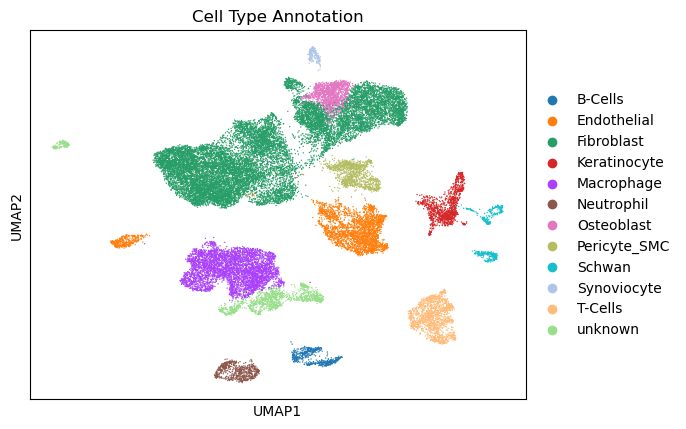
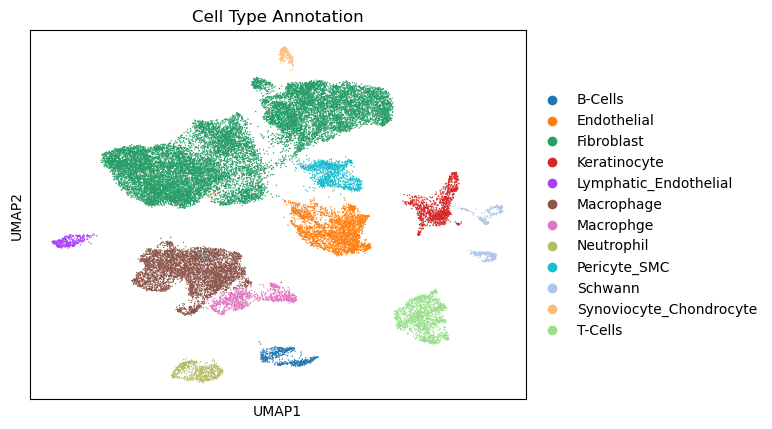
Update annotations and plots

diff --git a/src/annotate.py b/src/annotate.py
@@ -1,0 +1,46 @@
+#!/usr/bin/env python3
+
+import argparse
+import scanpy as sc
+import pandas as pd
+
+parser = argparse.ArgumentParser()
+parser.add_argument("--input", required=True)
+parser.add_argument("--output", required=True)
+parser.add_argument("--prefix", required=True)
+parser.add_argument("--annotations", required=True)
+parser.add_argument("--remove", required=False, help="Comma-separated list of cluster numbers to remove (e.g., '5,7,9')")
+args = parser.parse_args()
+
+adata = sc.read_h5ad(args.input)
+
+# Remove specified clusters if provided
+if args.remove:
+    remove_clusters = [c.strip() for c in args.remove.split(",")]
+    original_cells = adata.n_obs
+    adata = adata[~adata.obs["leiden"].astype(str).isin(remove_clusters)]
+    removed_cells = original_cells - adata.n_obs
+    print(f"Removed clusters: {remove_clusters}")
+    print(f"Removed {removed_cells} cells, {adata.n_obs} remaining")
+
+annotations = pd.read_csv(args.annotations, header=None, names=["leiden", "celltype"])
+annotations["leiden"] = annotations["leiden"].astype(str)
+
+mapping = dict(zip(annotations["leiden"], annotations["celltype"]))
+
+present_clusters = set(adata.obs["leiden"].astype(str).unique())
+mapped_clusters = set(mapping.keys())
+
+for cluster in present_clusters:
+    if cluster not in mapped_clusters:
+        print(f"WARNING: Cluster {cluster} has no annotation - will be labeled as 'unknown'")
+
+adata.obs["celltype"] = adata.obs["leiden"].astype(str).map(mapping).fillna("unknown")
+
+adata.write_h5ad(args.output)
+
+# UMAP with annotation written on the clusters
+sc.pl.umap(adata, color="celltype", legend_loc="on data", title="Cell Type Annotation", save=f"_{args.prefix}_celltypeON.png")
+
+# UMAP with annotation in legend only
+sc.pl.umap(adata, color="celltype", legend_loc="right margin", title="Cell Type Annotation", save=f"_{args.prefix}_celltype.png")

diff --git a/README.md b/README.md
@@ -222,3 +222,19 @@ marker_genes = {
 <img src="figures/umap_axt_Myh11.png?v=3" width="33%" />
 
 
+
+## Annotations 
+
+We used the above marker genes to annotate our celltypes as follows:
+
+![](figures/umap_axt_celltype.png?v=1)
+
+
+![](figures/umap_axt_celltypeON.png?v=1) 
+
+🚨🚨⚠ WARNING: Cluster 23 removed due to low-quality cells (133 cells were removed) ⚠ 🚨🚨
+
+
+
+
+
